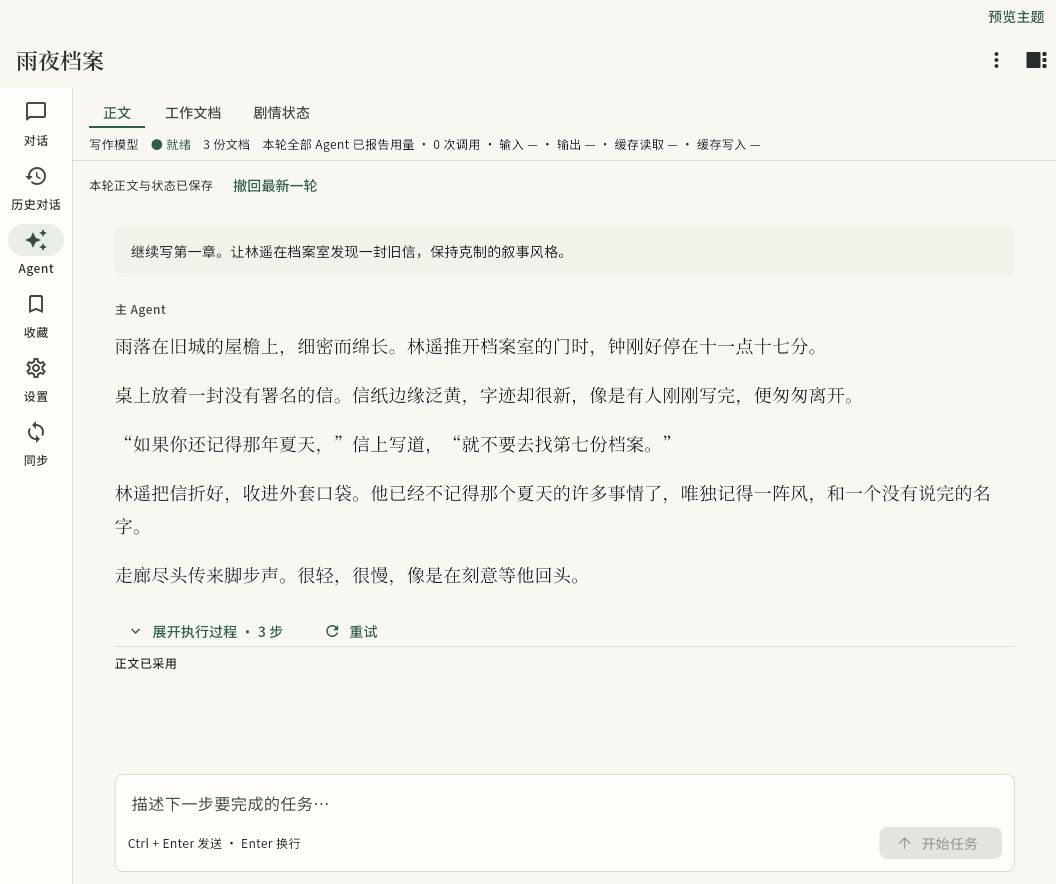
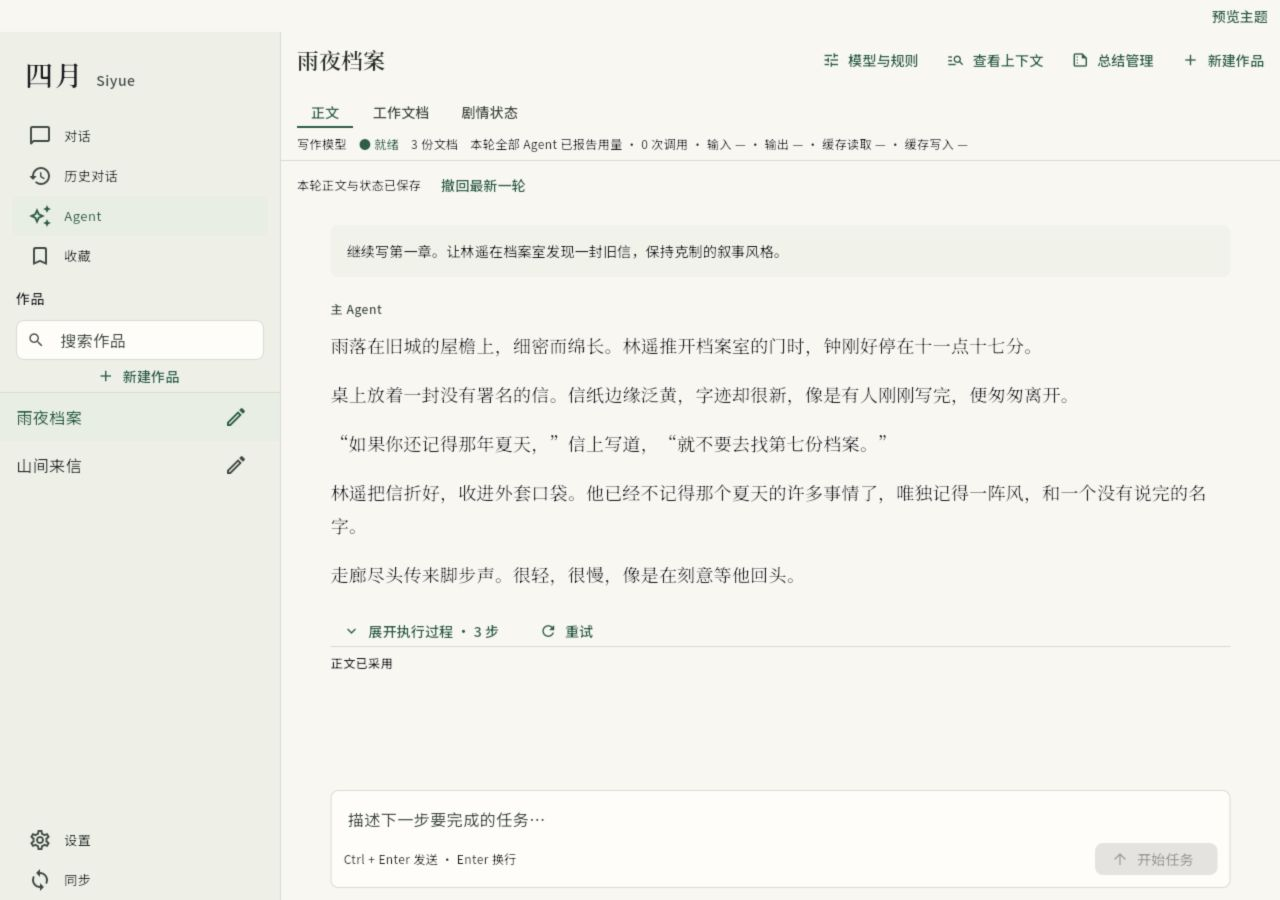
chore(brand): 将应用显示名称统一为四月
统一四月与 Siyue 的对外名称，复用现有宋体和黑体呈现侧栏字标，并更新窗口、通知、Android 标签、文档与界面截图。保留包名、应用身份、存储路径和协议标识，避免影响已有数据与配对。

diff --git a/lib/app/shell/app_shell_scaffold.dart b/lib/app/shell/app_shell_scaffold.dart
@@ -1,4 +1,5 @@
 import 'package:flutter/material.dart';
+import 'package:oh_my_llm/core/constants/app_identity.dart';
 import 'package:oh_my_llm/core/constants/app_layout_tokens.dart';
 import 'package:go_router/go_router.dart';
 
@@ -224,8 +225,31 @@ class _DesktopNavigationRail extends StatelessWidget {
           crossAxisAlignment: CrossAxisAlignment.stretch,
           children: [
             Padding(
-              padding: const EdgeInsets.all(24),
-              child: Text('oh-my-llm', style: theme.textTheme.titleLarge),
+              padding: const EdgeInsets.all(AppSpacing.lg),
+              child: Row(
+                crossAxisAlignment: CrossAxisAlignment.baseline,
+                textBaseline: TextBaseline.alphabetic,
+                children: [
+                  Text(
+                    AppIdentity.displayName,
+                    style: theme.textTheme.titleLarge?.copyWith(
+                      fontSize: 28,
+                      letterSpacing: 2,
+                    ),
+                  ),
+                  const SizedBox(width: AppSpacing.sm),
+                  Flexible(
+                    child: Text(
+                      AppIdentity.latinName,
+                      overflow: TextOverflow.ellipsis,
+                      style: theme.textTheme.labelLarge?.copyWith(
+                        color: theme.colorScheme.onSurfaceVariant,
+                        letterSpacing: 0.5,
+                      ),
+                    ),
+                  ),
+                ],
+              ),
             ),
             for (final destination in AppDestination.values.where(
               (destination) =>

diff --git a/lib/app/app.dart b/lib/app/app.dart
@@ -3,6 +3,7 @@ import 'package:flutter/foundation.dart'
 import 'package:flutter/material.dart';
 import 'package:flutter_riverpod/flutter_riverpod.dart';
 
+import 'package:oh_my_llm/core/constants/app_identity.dart';
 import 'package:oh_my_llm/core/http/http_client_provider.dart';
 import 'package:oh_my_llm/core/widgets/notification_bubble/notification_bubble_stack.dart';
 import 'package:oh_my_llm/features/settings/application/preferences/font_size_settings_controller.dart';
@@ -41,7 +42,7 @@ class _OhMyLlmAppState extends ConsumerState<OhMyLlmApp> {
     final router = ref.watch(appRouterProvider);
 
     return MaterialApp.router(
-      title: 'Oh My LLM',
+      title: AppIdentity.displayName,
       debugShowCheckedModeBanner: false,
       theme: AppTheme.lightTheme(bodyFontSize: bodyFontSize),
       darkTheme: AppTheme.darkTheme(bodyFontSize: bodyFontSize),

diff --git a/lib/app/platform/chat_generation_terminal_notification.dart b/lib/app/platform/chat_generation_terminal_notification.dart
@@ -2,6 +2,7 @@ import 'package:flutter/foundation.dart';
 import 'package:flutter_local_notifications/flutter_local_notifications.dart';
 import 'package:flutter_riverpod/flutter_riverpod.dart';
 
+import 'package:oh_my_llm/core/constants/app_identity.dart';
 import 'package:oh_my_llm/features/chat/application/ports/chat_generation_foreground_service.dart';
 
 /// 展示一次聊天生成终态系统通知。
@@ -18,7 +19,7 @@ final chatGenerationTerminalNotificationSenderProvider =
 const _initializationSettings = InitializationSettings(
   android: AndroidInitializationSettings('ic_chat_generation'),
   windows: WindowsInitializationSettings(
-    appName: 'Oh My LLM',
+    appName: AppIdentity.displayName,
     appUserModelId: 'YuzuShiki.OhMyLlm',
     guid: '7e4b2c91-5d4a-4a8e-9f1b-2c6d3a80e751',
   ),

diff --git a/lib/bootstrap.dart b/lib/bootstrap.dart
@@ -10,6 +10,7 @@ import 'app/app.dart';
 import 'app/composition/cross_feature_bindings.dart';
 import 'app/platform/chat_generation_terminal_notification.dart';
 import 'app/theme/app_theme.dart';
+import 'core/constants/app_identity.dart';
 import 'core/constants/app_layout_tokens.dart';
 import 'core/http/custom_headers_provider.dart';
 import 'core/logging/app_network_logger.dart';
@@ -116,7 +117,7 @@ class _StartupFailureApp extends StatelessWidget {
   @override
   Widget build(BuildContext context) {
     return MaterialApp(
-      title: 'oh_my_llm',
+      title: AppIdentity.displayName,
       debugShowCheckedModeBanner: false,
       theme: AppTheme.lightTheme(),
       darkTheme: AppTheme.darkTheme(),

diff --git a/test/integration/bootstrap_integration_test.dart b/test/integration/bootstrap_integration_test.dart
@@ -75,7 +75,7 @@ void main() {
 
     expect(calls, 1);
     expect(find.text('对话'), findsWidgets);
-    expect(find.text('oh-my-llm'), findsOneWidget);
+    expect(find.text('四月'), findsOneWidget);
     final container = boot.container;
     expect(container.read(sharedPreferencesProvider), same(boot.preferences));
     expect(container.read(appDatabaseProvider), same(boot.database));

diff --git a/lib/core/constants/app_identity.dart b/lib/core/constants/app_identity.dart
@@ -1,0 +1,7 @@
+/// 对外品牌名称独立于包名、存储目录和协议标识，改名不改变已有数据身份。
+final class AppIdentity {
+  const AppIdentity._();
+
+  static const displayName = '四月';
+  static const latinName = 'Siyue';
+}

diff --git a/windows/runner/main.cpp b/windows/runner/main.cpp
@@ -29,7 +29,7 @@ int APIENTRY wWinMain(_In_ HINSTANCE instance, _In_opt_ HINSTANCE prev,
   FlutterWindow window(project);
   Win32Window::Point origin(10, 10);
   Win32Window::Size size(1280, 720);
-  if (!window.Create(L"oh_my_llm", origin, size)) {
+  if (!window.Create(L"\u56DB\u6708", origin, size)) {
     return EXIT_FAILURE;
   }
   window.SetQuitOnClose(true);

diff --git a/DESIGN.md b/DESIGN.md
@@ -1,6 +1,6 @@
 ---
 version: alpha
-name: oh-my-llm
+name: siyue
 description: 面向长文本阅读与创作的本地 Flutter 工作台
 colors:
   primary-light: '#2F5D46'
@@ -40,6 +40,8 @@ components:
 参考图遗漏的既有功能必须按当前布局补齐；图中新增功能不直接实现。整体一致性优先于逐像素照搬，偏离参考图的结构选择需要说明理由。移动端压缩标题和工具区留白，不缩减正文可读性、交互命中区或常用入口。
 
 ## 产品与视觉方向
+
+产品名称为 **四月 / Siyue**。左上角字标由 `AppShellScaffold` 统一呈现：中文沿用主题 `titleLarge` 的 Noto Serif SC、600 字重，局部字号 28、字距 2；英文使用 `labelLarge` 的 Noto Sans SC、字距 0.5 和次级前景色，二者基线对齐。复用现有字体形成品牌与操作的层级，不新增字体资产、装饰图标或口号。Dart 对外名称统一来自 `AppIdentity`，不改变持久化或协议标识。
 
 Windows、Android 双端中文本地 LLM 客户端，主要用户是开发者，主要任务是长文本阅读、对话与写作。产品界面使用简体中文，模型与协议名称保留原文。不依据语言字符推断其他市场的业务规则。
 

diff --git a/AGENTS.md b/AGENTS.md
@@ -1,6 +1,6 @@
 # AGENTS.md
 
-本地 LLM 聊天客户端，Flutter 应用，Windows + Android 双端。无厂商绑定，兼容任意 OpenAI 接口。
+四月（Siyue），本地 AI 聊天与创作客户端，Flutter 应用，Windows + Android 双端。无厂商绑定，支持 Chat Completions、Responses 和 Anthropic Messages。
 
 **技术栈**：Flutter 3.47.x stable（CI 固定 3.47.1）/ Dart `^3.13.1` · Riverpod 3（`NotifierProvider`）· `sqlite3`（原始包，非 drift/sqflite）· 原始 `package:http`（无厂商 SDK）· `go_router`。
 
@@ -71,6 +71,8 @@ flutter test --reporter compact 2>&1 | Out-File -Encoding utf8 logs/fltest.log; 
 Agent 若重定向脚本输出，Windows/Android 分别使用 `logs/build-windows.log`、`logs/build-android.log`。
 
 产物命名固定 `oh_my_llm-{platform}-{version}`，版本号从 `pubspec.yaml` 读取。
+
+对外名称为 **四月 / Siyue**，Dart 统一使用 `AppIdentity`。仓库地址、`oh_my_llm` 包名与产物前缀、应用 ID、存储路径、通知身份及同步／交换格式标识保留原值，避免改名影响升级、旧数据和已配对设备。不要全局替换技术标识。
 
 ---
 

diff --git a/README.md b/README.md
@@ -1,4 +1,4 @@
-# Oh My LLM
+# 四月 · Siyue
 
 **用于聊天与长篇写作的 LLM 客户端，支持 Windows 和 Android。**
 

diff --git a/docs/usage.md b/docs/usage.md
@@ -1,4 +1,4 @@
-# 使用指南
+# 四月使用指南
 
 [返回项目首页](../README.md)
 
